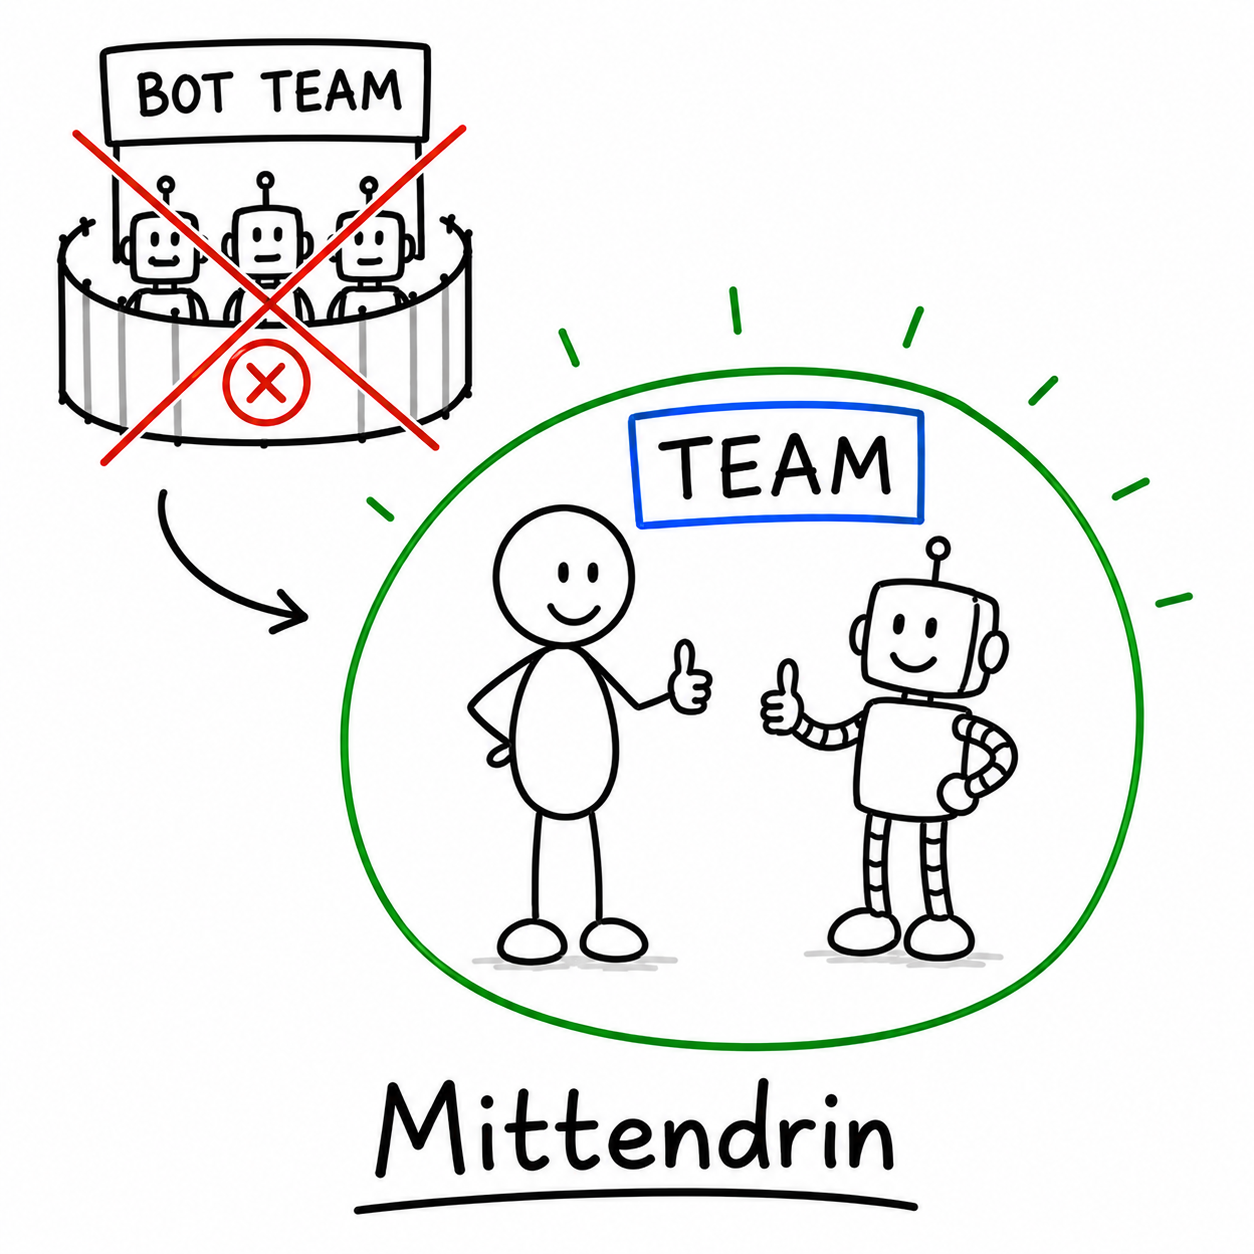
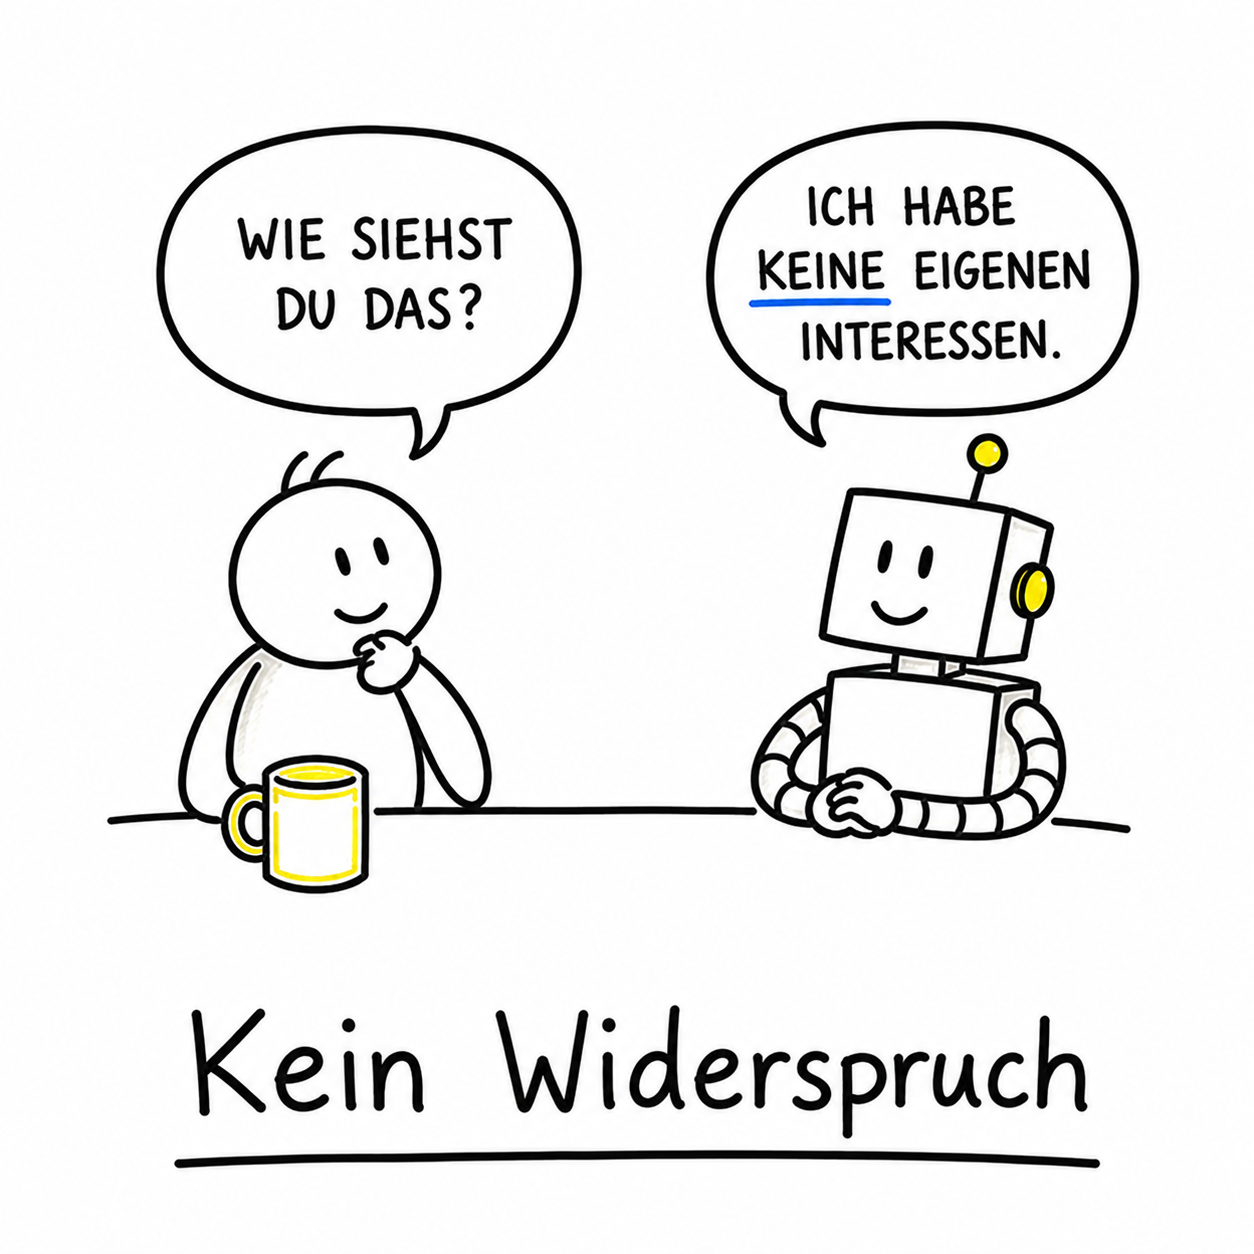
A19 goes into the difference instead of selling it as the same
The post no longer argues that a 1+AI team is the same discipline as a
human one. Among people, equal footing is work and contradiction is free;
here it is the other way round — one will in the room, a hierarchy that is
never put to the test, and a contradiction that has to be produced on
purpose or provoked out of Morten. It closes on the condition under which
people speak up at all.

Brief and image follow the new message: caption "Kein Widerspruch", the
robot answering a genuine question with the fact that he has no view of
his own. The A19 row carries the rewritten message and drops the note
about being the checklist control.

diff --git a/linkedin-posts/REPERTOIRE.md b/linkedin-posts/REPERTOIRE.md
@@ -47,7 +47,7 @@ AI story first (mostly), then the people-leadership translation.
 | A1 | Kontext verloren | Refactoring hit the token limit; compacting failed because the context window was too small; session gone (Christian's own example) | Situational leadership: Christian treated the agent as a senior (delegating) when for this task it was a junior needing telling/selling — smaller goals, checkpoints; match style to task maturity, not to confident appearance (reframed 2026-07-14 from "smaller packages") | posted (2026-07-16, 20260716-li-story-kontextverloren) |
 | A2 | Selbstbewusst ist nicht richtig | Agent reasoned confidently about path resolution and was wrong, twice in one session; the empirical check won (20260617) | The most confident voice in the meeting isn't the most correct one; verify at the source instead of trusting delivery style | posted (2026-07-23, 20260723-li-story-selbstbewusst) — repo file reflects the published wording |
 | A11 | Ich habe diese Woche jemanden eingestellt | Morten Market hired as marketing agent: goal and task as entry point, deliberately small start with an unknown colleague, explicit clarification, asked Morten himself what he needs for his job (20260718) | Onboarding: trust grows through working together before authority and responsibilities grow; start small with people you don't know yet | posted (2026-07-30, 20260730-li-story-eingestellt) |
-| A19 | Ich habe ein Team gegründet - und mich selbst hineingesetzt | The first team proposal was `agents` — bots only; a team of only bots is a pen, not a team, so there is one team with both of us in it and write access flows through it (20260723). The draft states the crew structure as it stands today rather than the naming rationale of 23.07, which the 31.07 decision reversed — see the note in B7's row | The leader who holds responsibility belongs in the team, not above it — equal footing means everyone contributes to the team's goal in good conscience, not to please management | drafted (20260820-li-story-augenhoehe, "Ich habe ein Team gegründet - und mich selbst hineingesetzt"), for Thu 20.08, pairing with B7; ends on the 20260723 open question rather than a maxim — under people, equal footing has to be earned and defended against ego, career interest and fear of consequences, and Morten has none of that, so does it get easier or lose its meaning. **Its imageprompt is the deliberate control** for IDEAS #21: the usual element-by-element motif, same week and style as the goal-oriented brief of 17.08 |
+| A19 | Ich habe ein Team gegründet, in dem mir niemand widerspricht | The first team proposal was `agents` — bots only; a team of only bots is a pen, not a team, so there is one team with both of us in it and write access flows through it (20260723). The draft states the crew structure as it stands today rather than the naming rationale of 23.07, which the 31.07 decision reversed — see the note in B7's row | A flat structure is not proof of equal footing. Among people it has to be earned and defended against ego, career interest and the fear of consequences; an agent has none of that, so there is exactly one will in the room and the hierarchy is never put to the test. The contradiction has to be produced deliberately, or the agent set up to provoke it — while among people it comes for free, as long as they feel safe enough to say it out loud | drafted (20260820-li-story-augenhoehe, "Ich habe ein Team gegründet, in dem mir niemand widerspricht"), for Thu 20.08, pairing with B7. **Message rewritten 2026-08-10**, Christian's call: the draft no longer sells the 1+AI team as the same discipline as a human team but goes into the difference, and it closes on the psychological-safety condition instead of the 20260723 open question. Its imageprompt is a goal brief like the ones for 13.08 and 17.08 — the deliberate checklist control for IDEAS #21 is gone with it — caption "Kein Widerspruch", image done |
 | A20 | Sicherheit und Umkehrbarkeit vor der Veränderung | Characterization tests + a published baseline came before any refactoring and paid off the next session (A3, 20260617/28); both repos were pushed to GitHub *before* a line of rename code, making a risky rewrite reversible (A6, 20260623); and the "simple" rename still touched .gitignore, hardcoded paths, IDE metadata, remote URLs, docs, AI memory, the repo name (A5, 20260624) | Before you demand a big change from a team, make it safe and reversible — psychological safety and two-way doors make people brave — and trace the full chain of references first, because a restructuring touches far more than the org chart | idea (merges A3, A5, A6) |
 | A21 | Befähigen, dann beurteilen — was Führung wird | Agents err the way people do, and leading one felt familiar — goal, context, boundaries, feedback, stay in the loop (A7, 20260617/09); delegating only worked once context, goal and boundaries were given first (A8, 20260709); with those in place the website was live in an afternoon, agent doing, human supervising and judging (A9); and well-kept notes turned a later cleanup into minutes — new sessions onboard instantly (A10, 20260622–24) | The leader's value shifts from expertise to judgement — accuracy, impact, risk. Enable before you empower: authority without context is abandonment. And enabling is largely documentation — every new member is a "new session", onboarding quality is documentation quality | idea (merges A7, A8, A9, A10) |
 | A22 | Der Auftrag ist das Problem | The stats report became genuinely good charts in three attempts once the spec was the audience descriptor "CEO-friendly", not format rules — plus feedback each round (A16, 20260719); and a wrong image was drawn perfectly yet said the opposite of the post because the imageprompt was ambiguous — the fix belonged in the brief, not the worker (A17, 20260721) | Name the audience and the goal, not the method, and let people iterate against feedback. When a result is wrong, question the brief before the worker — assume positive intent; an ambiguous instruction, not bad work, is usually the cause | drafted as the A17 beat only (20260813-li-story-auftrag, "Mein Agent hat genau das gezeichnet, was ich aufgeschrieben hatte"), imageprompt ready, PNG pending — paired with B6 in the same week, and carrying B6's sharpened framing: he ticked the list point by point without knowing the intention behind it. Christian added the closing thought on 06.08: with a human he would agree on goal and intended effect up front, possibly as a user story, and he wonders aloud whether to try the same with Morten — describing the goal and leaving him room. The same open question ends B6, so the week's pair closes on one note in two languages. The A16 beat (naming the audience, "CEO-friendly", beats naming the method) stays unwritten and is still free material |
